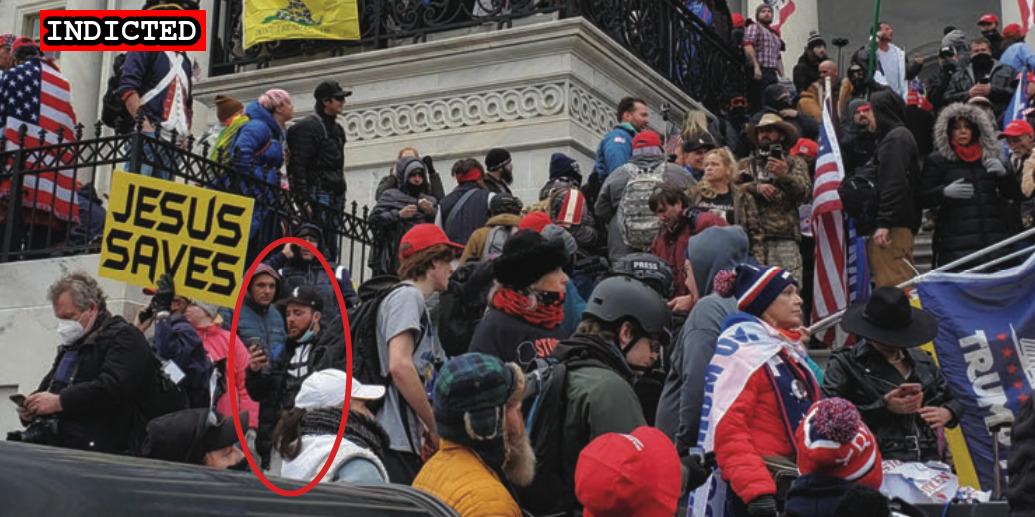
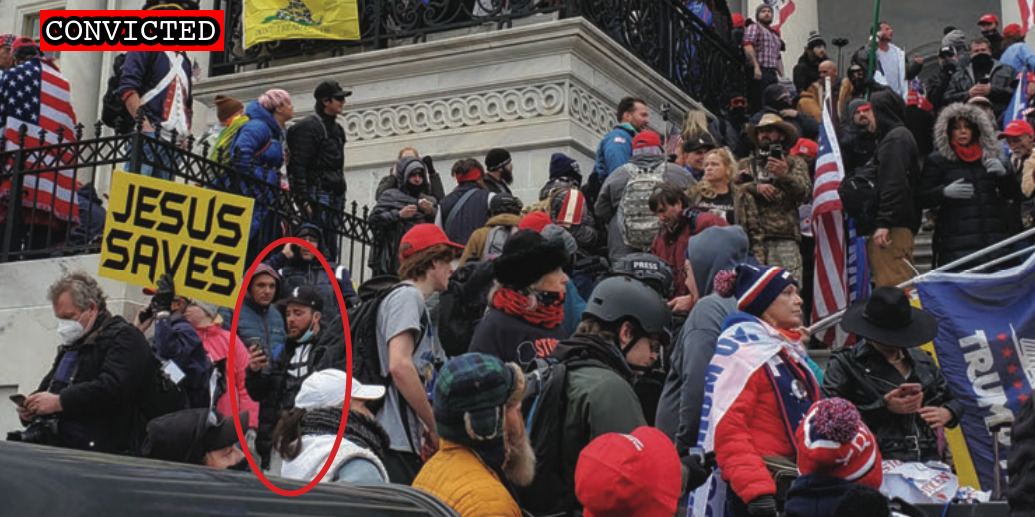
Latest import

Changed region(s): [[0.0309, 0.0, 0.2164, 0.1238]]

diff --git a/docs/_suspects/richard-michetti.md b/docs/_suspects/richard-michetti.md
@@ -4,16 +4,18 @@ lastName: Michetti
 hashtag: RichardMichetti
 aka:
 residence: Pennsylvania
-status: Indicted
+status: Convicted
 date: 2021-02-17
 charged: 2021-02-17
 indicted: 2021-03-19
-convicted: 
-sentenced: 
-dismissed: 
+convicted: 2022-05-31
+acquitted:
+sentenced:
+dismissed:
 deceased:
-plea_hearing:
-sentencing:
+plea_hearing: 2022-05-31
+trial_date:
+sentencing: 2022-09-01
 age:
 occupation:
 affiliations:
@@ -25,7 +27,7 @@ courtroom:
 courthouse:
 raid:
 perpwalk:
-quote: 'If you can’t see the election was stolen you’re a moron.'
+quote: "If you can’t see the election was stolen you’re a moron."
 title: Richard Michetti charged on February 17, 2021
 description: Click for latest case details. Suspects innocent until proven guilty.
 author: seditiontrack
@@ -34,8 +36,17 @@ published: true
 caseNumber: 1:21-cr-232
 videos:
 charges:
+  - code: 18 USC § 1512(c)(2)
+    title: Obstruction of an Official Proceeding
+    url: https://www.law.cornell.edu/uscode/text/18/1512
+    felony: true
 sentence:
 ---
+
 - [News Report](https://www.mcall.com/news/pennsylvania/mc-nws-pa-pennsylvania-man-charged-capitol-ex-girlfriend-fbi-20210224-ykcigqstwvdvnaric6chlxrqxy-story.html)
 - [Statement of Facts](https://www.justice.gov/usao-dc/case-multi-defendant/file/1371461/download)
 - [Indictment](https://www.justice.gov/usao-dc/case-multi-defendant/file/1378296/download)
+- [Plea Agreement](https://www.justice.gov/usao-dc/case-multi-defendant/file/1509461/download)
+- [Statement of Offense](https://www.justice.gov/usao-dc/case-multi-defendant/file/1509466/download)
+- [DOJ Press Release](https://www.justice.gov/usao-dc/pr/pennsylvania-man-pleads-guilty-felony-charge-actions-during-jan-6-capitol-breach)
+- [News Report (Conviction)](https://www.nbcnews.com/politics/justice-department/jan-6-rioter-called-ex-turned-fbi-moron-pleads-guilty-felony-rcna31237?cid=sm_npd_nn_tw_np)
